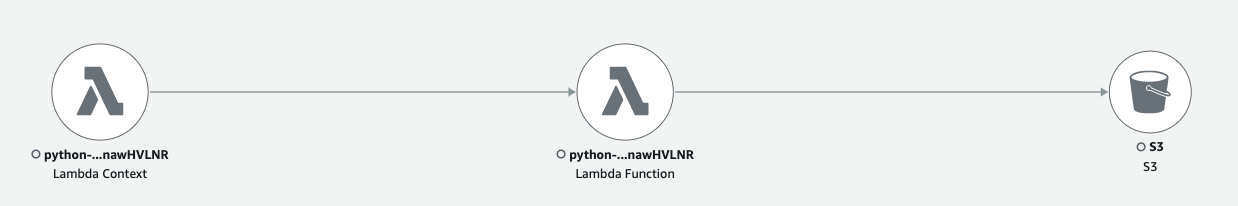
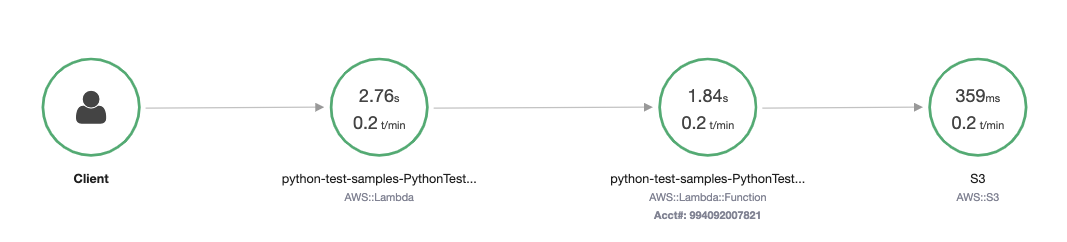
modify x-ray image

diff --git a/testing-samples/python-test-samples/README.md b/testing-samples/python-test-samples/README.md
@@ -206,7 +206,9 @@ AWS Cloud Development Kit (CDK) has a similar synchronization feature, `cdk watc
 ## Implement application tracing
 You can use AWS X-Ray to track user requests as they travel through your entire application. With X-Ray, you can understand how your application and its underlying services are performing to identify and troubleshoot the root cause of performance issues and errors.
 
-This [Lambda function](./src/app.py) handler has been instrumented using AWS X-Ray. Find to your Lambda function in the console. Then navigate to `Monitor` -> `Traces` and you should see a graph that looks similar to the one below. 
+This [Lambda function](./src/app.py) handler has been instrumented using AWS X-Ray. Find to your Lambda function in the console. Then navigate to `Monitor` -> `Traces` and you should see a graph of your X-Ray trace.
+
+You may also navigate to the [X-Ray service](https://console.aws.amazon.com/xray/home) in the console to examine your traces in greater detail. In the console you should be able to find a service map that looks similar to the one below. 
 
 ![X-Ray image](./img/xray.png)
 
